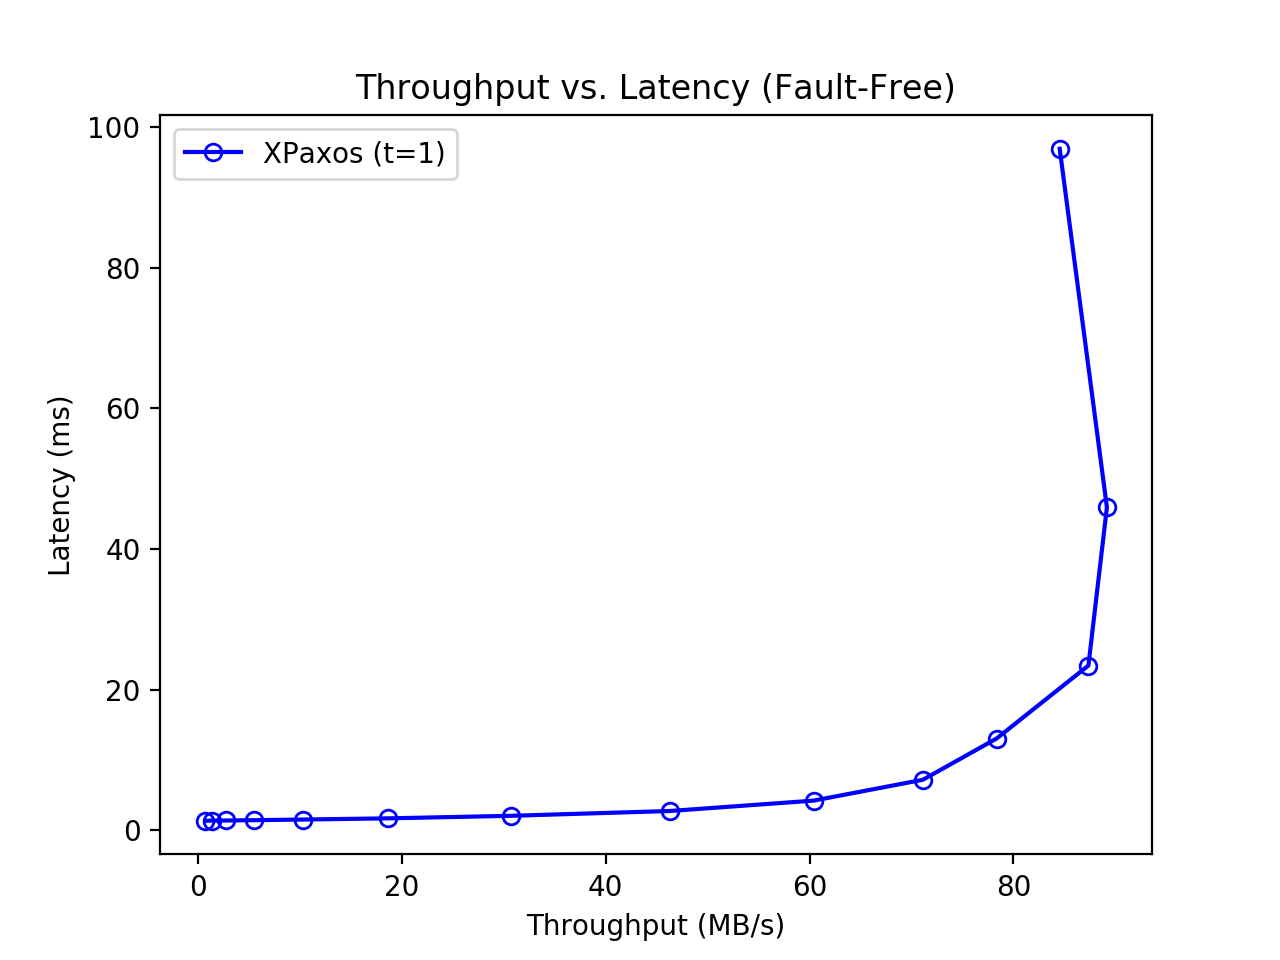
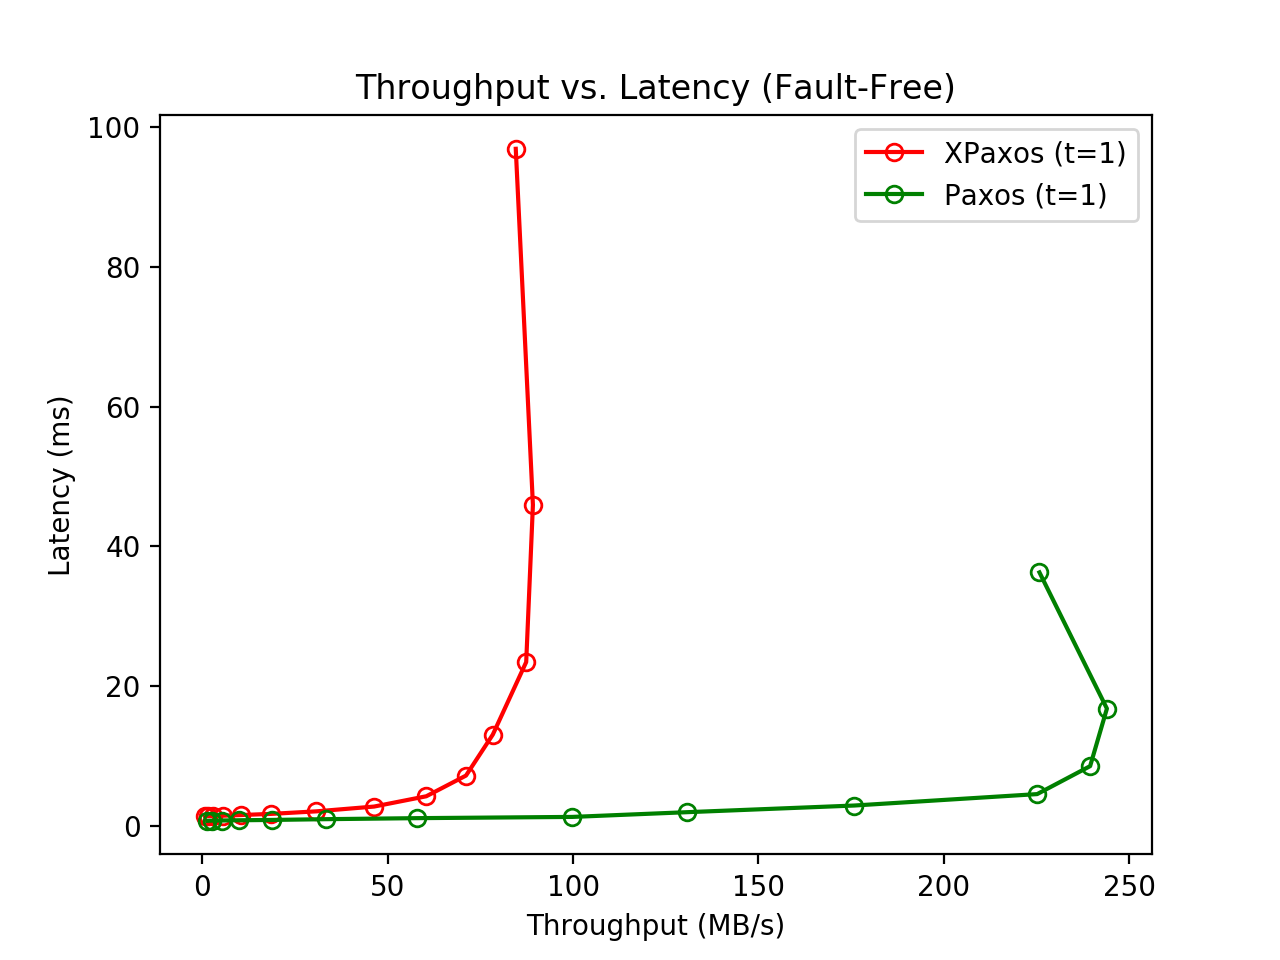
Included Paxos results in graphs

diff --git a/graphs/plot_graphs.py b/graphs/plot_graphs.py
@@ -13,12 +13,14 @@ def calc_throughput_and_latency(latencies, op_size=1024, num_benchmarks=14):
 
 	return throughput, latencies
 
-def plot_throughput_vs_latency_1(n, latencies):
-	throughput, latencies = calc_throughput_and_latency(latencies)
+def plot_throughput_vs_latency_1(n, xpaxos_latencies, paxos_latencies):
+	xpaxos_throughput, xpaxos_latencies = calc_throughput_and_latency(xpaxos_latencies)
+	paxos_throughput, paxos_latencies = calc_throughput_and_latency(paxos_latencies)
 
 	plt.figure()
 	plt.title("Throughput vs. Latency (Fault-Free)")
-	plt.plot(throughput, latencies, "bo-", mfc="none", label="XPaxos (t={0})".format(n // 2))
+	plt.plot(xpaxos_throughput, xpaxos_latencies, "ro-", mfc="none", label="XPaxos (t={0})".format(n // 2))
+	plt.plot(paxos_throughput, paxos_latencies, "go-", mfc="none", label="Paxos (t={0})".format(n // 2))
 	plt.xlabel("Throughput (MB/s)")
 	plt.ylabel("Latency (ms)")
 	plt.legend()
@@ -40,19 +42,28 @@ def plot_throughput_vs_latency_2(latencies_3, latencies_5, latencies_11):
 	plt.show()
 
 if __name__ == "__main__":
-	 # Number of XPaxos servers = 3 (t=1)
-	latencies_3 = [1370523, 1403328, 1414017, 1458120, 1548804, 1718874, 2079989,
+	 # Number of servers = 3 (t=1)
+	xpaxos_latencies_3 = [1370523, 1403328, 1414017, 1458120, 1548804, 1718874, 2079989,
 		2764268, 4238630, 7200030, 13070145, 23446588, 45938973, 96908592]
 
-	# Number of XPaxos servers = 5 (t=2)
-	latencies_5 = [1880869, 1925783, 1954873, 2007609, 2147153, 2336045, 2810776, 
+	paxos_latencies_3 = [726676, 753971, 769380, 804065, 850515, 959943, 1105449, 
+		1282887, 1958755, 2912091, 4547516, 8552241, 16787261, 36280343]
+
+	# Number of servers = 5 (t=2)
+	xpaxos_latencies_5 = [1880869, 1925783, 1954873, 2007609, 2147153, 2336045, 2810776, 
 		3925262, 6001965, 10236870, 18271642, 35378452, 69094325, 124575934]
 
-	# Number of XPaxos servers = 11 (t=5)
-	latencies_11 = [10001447, 10013064, 10552734, 10844408, 11691880, 11553041, 10873228, 
+	paxos_latencies_5 = [1411875, 1340863, 1360656, 1339810, 1469436, 1682367, 1958918, 
+		2555338, 3420035, 5501513, 8208274, 15135304, 32572484, 70068151]
+
+	# Number of servers = 11 (t=5)
+	xpaxos_latencies_11 = [10001447, 10013064, 10552734, 10844408, 11691880, 11553041, 10873228, 
 		13479840, 18486121, 27493842, 37603711, 65881652, 120539304, 247515066]
 
-	plot_throughput_vs_latency_1(3, latencies_3)
-	plot_throughput_vs_latency_1(5, latencies_5)
-	plot_throughput_vs_latency_1(11, latencies_11)
-	plot_throughput_vs_latency_2(latencies_3, latencies_5, latencies_11)
+	paxos_latencies_11 = [3174589, 3095474, 3142733, 3283624, 3420335, 4018418, 4657095, 
+		6219817, 8788313, 14276049, 20237393, 37946124, 78068078, 179761933]
+
+	plot_throughput_vs_latency_1(3, xpaxos_latencies_3, paxos_latencies_3)
+	plot_throughput_vs_latency_1(5, xpaxos_latencies_5, paxos_latencies_5)
+	plot_throughput_vs_latency_1(11, xpaxos_latencies_11, paxos_latencies_11)
+	plot_throughput_vs_latency_2(xpaxos_latencies_3, xpaxos_latencies_5, xpaxos_latencies_11)
